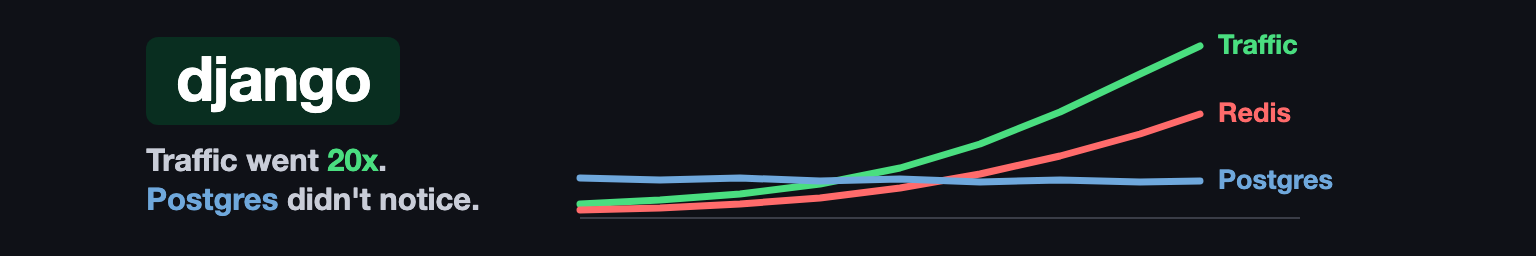
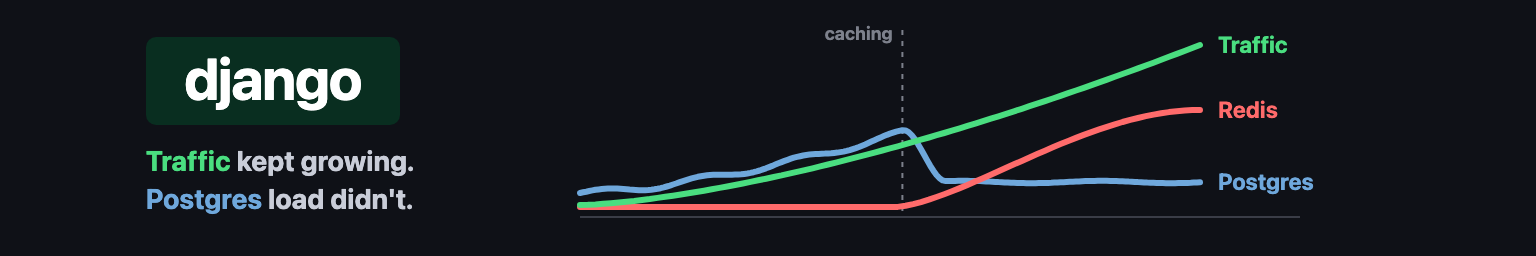
Redraw Caching at Scale cover to match the intro

diff --git a/content/posts/caching-at-scale-in-django.md b/content/posts/caching-at-scale-in-django.md
@@ -13,7 +13,7 @@ cover:
   image: 'covers/django-caching-at-scale.png'
 ---
 
-My team runs a multi-tenant Django API, and for years we scaled it the usual ways: a bigger Postgres primary, then a read replica, plus a few cautious caches with short TTLs and patchy invalidation. Then traffic grew about 20x in two years, and what carried that growth was caching deliberately and aggressively.
+My team runs a multi-tenant Django API, and for years we scaled it the usual ways: a bigger Postgres primary, then a read replica, plus a few cautious caches with short TTLs and patchy invalidation. Then traffic grew about 20x in two years, and what carried that load was caching deliberately and aggressively.
 
 ```mermaid
 flowchart LR
